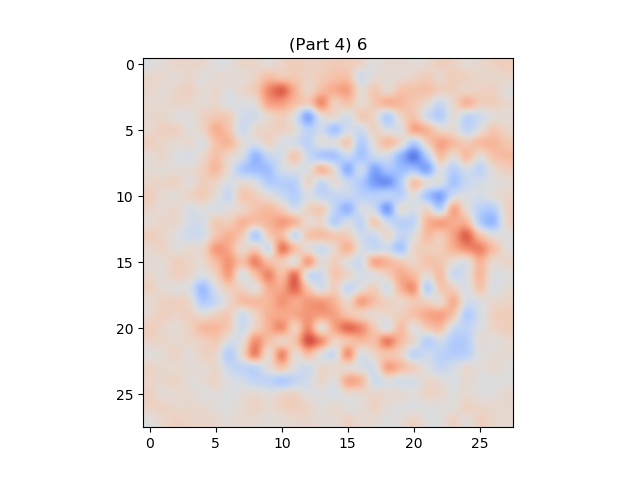
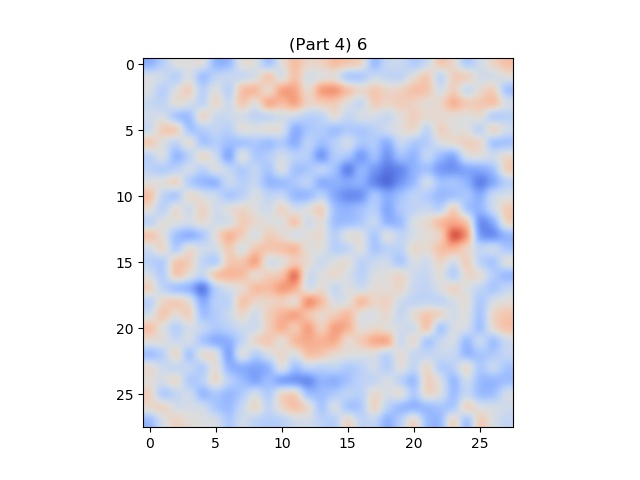
Tried new parameters for part 5

Changed region(s): [[0.2188, 0.125, 0.8125, 0.9062]]

diff --git a/Code/digits.py b/Code/digits.py
@@ -138,12 +138,12 @@ def part3():
     # Gradient descent
     np.random.seed(3)
     init_W = np.random.rand(28*28 + 1,10) # Randomly initialize weight matrix
-    alpha = 1e-4
-    eps = 1e-6
-    max_iter = 10000
+    alpha = 1e-5
+    eps = 1e-4
+    max_iter = 1000
     init_v = 0.1 # Initial momentum value
-    momentum = 0.9
-    num_images = 1000 # Number of images per digit to use for training
+    momentum = 0.90
+    num_images = 5000 # Number of images per digit to use for training
     (W, history) = p5.part5_train(XTrain, YTrain, indicesTrain, num_images, alpha, 
                                   eps, max_iter, init_W, init_v, momentum)
     
